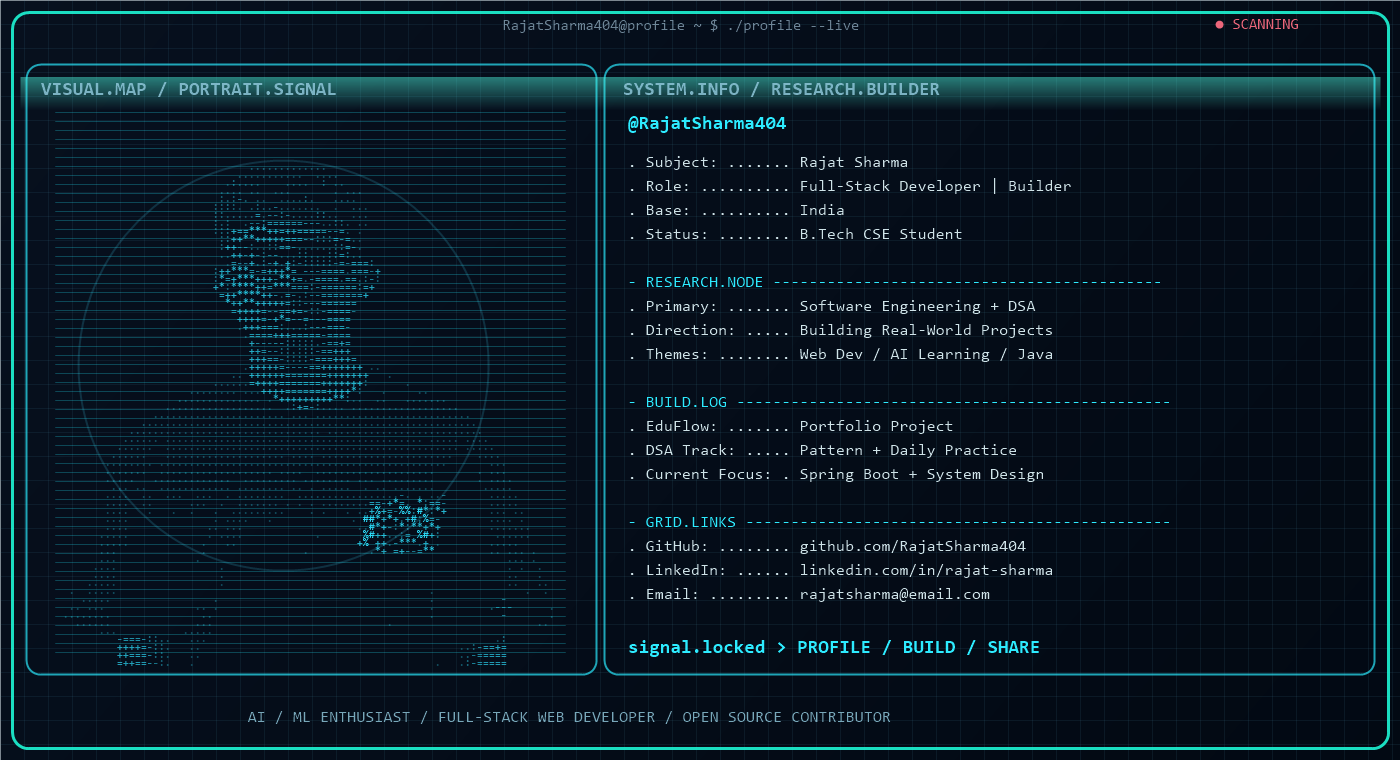
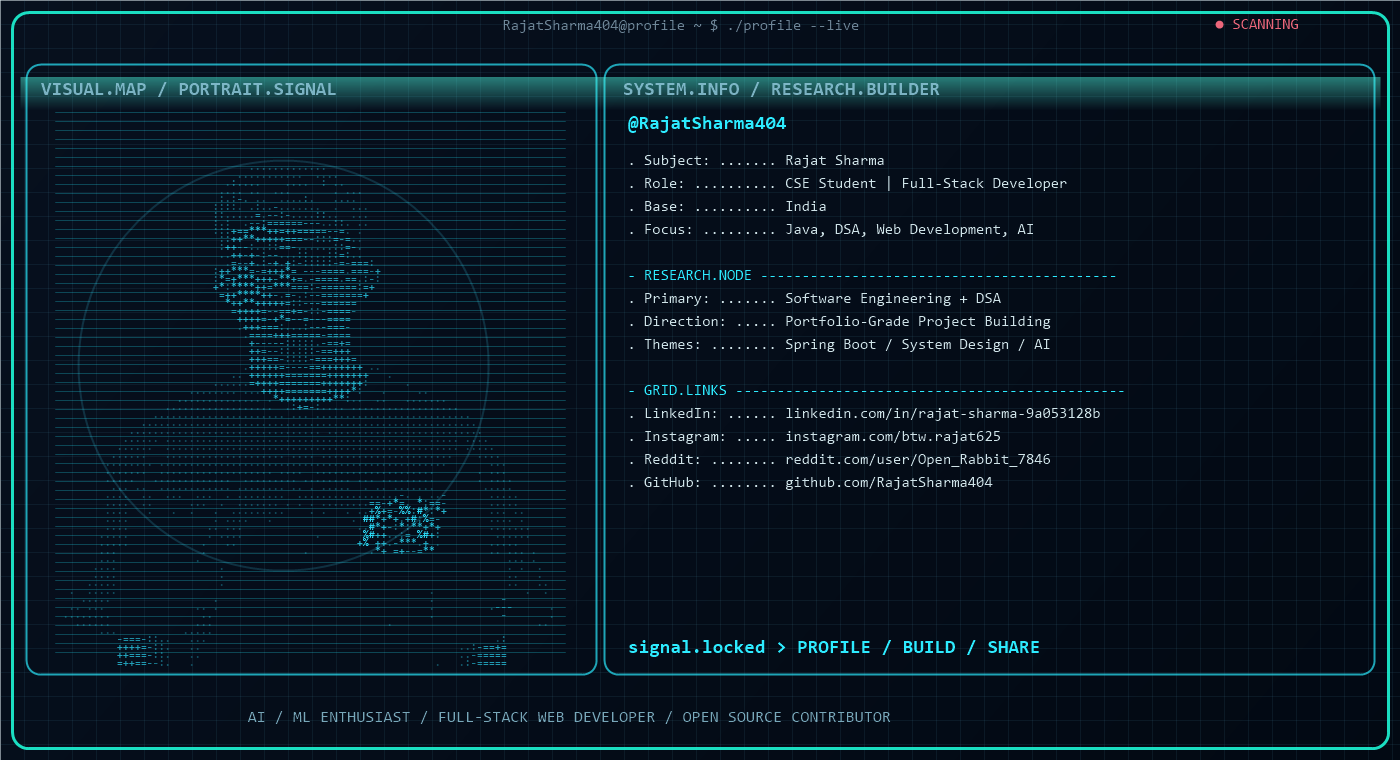
Add LinkedIn, Instagram, Reddit links and align profile descriptions

diff --git a/README.md b/README.md
@@ -1,8 +1,8 @@
 <h1 align="center">Hey Everyone, I am Rajat Sharma</h1>
-<h3 align="center">Full-Stack Developer | DSA Enthusiast | AI Learner</h3>
+<h3 align="center">Computer Science Student | Full-Stack Developer | Java and DSA | AI Learner</h3>
 
 <h2 align="center">
-  <img src="https://readme-typing-svg.demolab.com?font=Fira+Code&size=30&duration=2800&pause=900&color=20F7F7&center=true&vCenter=true&width=900&lines=B.Tech+Student+in+Computer+Science;Building+Real-World+Projects;Java+%7C+DSA+%7C+Web+Development;Learning+Spring+Boot+and+AI" alt="Typing SVG" />
+  <img src="https://readme-typing-svg.demolab.com?font=Fira+Code&size=30&duration=2800&pause=900&color=20F7F7&center=true&vCenter=true&width=980&lines=Computer+Science+Student+%7C+Full-Stack+Developer;Java+%7C+Data+Structures+and+Algorithms;Building+Practical+Web+Projects;Learning+Spring+Boot%2C+System+Design%2C+and+AI" alt="Typing SVG" />
   <br />
 </h2>
 
@@ -13,12 +13,12 @@
 </p>
 
 <p align="center">
-  I am focused on software development fundamentals, problem solving, and building practical products that combine clean engineering with useful outcomes.
+  I am a Computer Science student focused on software engineering fundamentals, data structures and algorithms, and full-stack project development with a strong learning mindset.
 </p>
 
-- I am currently working on portfolio and DSA-focused projects
-- I am looking to collaborate on Java and web development projects
-- I am currently learning Spring Boot, system design basics, and AI workflows
+- I am currently building portfolio-grade projects and improving problem solving through DSA
+- I am open to collaboration on Java, backend, and full-stack web development projects
+- I am currently learning Spring Boot, system design, and practical AI workflows
 
 ### Languages
 
@@ -64,8 +64,8 @@
 
 | Project                                                      | Description                                            | Tech Stack            |
 | :----------------------------------------------------------- | :----------------------------------------------------- | :-------------------- |
-| [Portfolio Website](https://github.com/RajatSharma404)       | Personal portfolio highlighting projects and skills.   | HTML, CSS, JavaScript |
-| [DSA Practice Repository](https://github.com/RajatSharma404) | Daily DSA solutions and pattern-based problem solving. | Java, C++             |
+| [Portfolio Website](https://github.com/RajatSharma404)       | Professional portfolio showcasing projects, technical stack, and development journey. | HTML, CSS, JavaScript |
+| [DSA Practice Repository](https://github.com/RajatSharma404) | Structured DSA practice with consistent problem solving and pattern-oriented approaches. | Java, C++             |
 
 ---
 
@@ -110,6 +110,8 @@
 
 <p align="center">
   <a href="https://github.com/RajatSharma404">GitHub</a> |
-  <a href="https://www.linkedin.com">LinkedIn</a> |
+  <a href="https://www.linkedin.com/in/rajat-sharma-9a053128b">LinkedIn</a> |
+  <a href="https://www.instagram.com/btw.rajat625/">Instagram</a> |
+  <a href="https://www.reddit.com/user/Open_Rabbit_7846/">Reddit</a> |
   <a href="mailto:rajatsharma@email.com">Email</a>
 </p>
